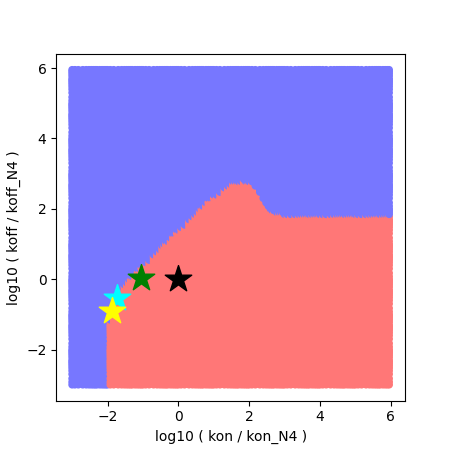
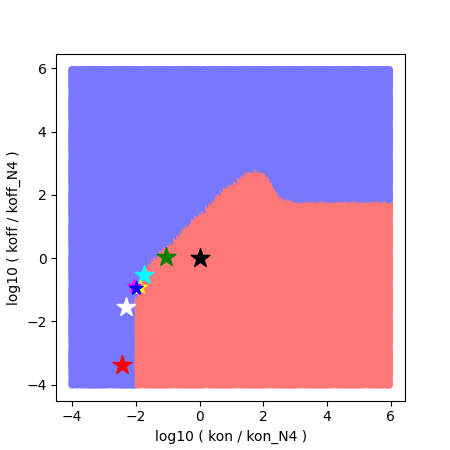
updated

diff --git a/other scripts and data/Fig 5C/kk_plots.py b/other scripts and data/Fig 5C/kk_plots.py
@@ -23,10 +23,15 @@ with open(fn_in_0, 'r') as file:
     headers = next(reader)
     data_0 = np.array(list(reader))
 
+data_0_merge = np.concatenate((data_0[0, :], data_0[1, :], data_0[2, :])).astype(float)
+print(data_0_merge.shape)
+
 ticklabels = headers
 
 data_for_calc_0 = data_0.astype(float)
 values_0 = np.mean(data_for_calc_0, 0)
+
+log_data_for_calc_merge = None
 
 for i in range(3):
     kName = kNames1[i]
@@ -43,12 +48,17 @@ for i in range(3):
     data_for_calc = data[:, 1:].astype(float)
     print(data_for_calc.shape)
     lod_data_for_calc = np.log10(data_for_calc)
+    if log_data_for_calc_merge is None:
+        log_data_for_calc_merge = lod_data_for_calc
+    else:
+        log_data_for_calc_merge = np.column_stack((log_data_for_calc_merge, lod_data_for_calc))
     #means = np.nanmean(data_for_calc, 0)
     #logmeans = np.log10(means)
     logmeans = np.nanmean(lod_data_for_calc, 0)
     values_mean.append(logmeans)
     logstd = np.nanstd(lod_data_for_calc, 0)
     values_std.append(logstd)
+print(log_data_for_calc_merge.shape)
 
 fig = plt.figure(figsize=(12, 12))
 
@@ -85,22 +95,61 @@ ax.set_ylabel(f'log10({kNames2[2]})')
 plt.savefig(fn_out)
 
 rho, p_value = stats.spearmanr(values_0, values_mean[0])
-print(f"kon Spearman’s ρ: {rho:.3f}, p-value: {p_value:.4f}")
+print(f"kon Spearman’s ρ 1: {rho:.3f}, p-value: {p_value:.4f}")
 rho, p_value = stats.spearmanr(values_0, values_mean[1])
-print(f"koff Spearman’s ρ: {rho:.3f}, p-value: {p_value:.4f}")
+print(f"koff Spearman’s ρ 1: {rho:.3f}, p-value: {p_value:.4f}")
 rho, p_value = stats.spearmanr(values_0, values_mean[2])
-print(f"krel Spearman’s ρ: {rho:.3f}, p-value: {p_value:.4f}")
+print(f"krel Spearman’s ρ 1: {rho:.3f}, p-value: {p_value:.4f}")
 
 rho, p_value = stats.pearsonr(values_0, values_mean[0])
-print(f"kon Pearson’s ρ: {rho:.3f}, p-value: {p_value:.4f}")
+print(f"kon Pearson’s ρ 1: {rho:.3f}, p-value: {p_value:.4f}")
 rho, p_value = stats.pearsonr(values_0, values_mean[1])
-print(f"koff Pearson’s ρ: {rho:.3f}, p-value: {p_value:.4f}")
+print(f"koff Pearson’s ρ 1: {rho:.3f}, p-value: {p_value:.4f}")
 rho, p_value = stats.pearsonr(values_0, values_mean[2])
-print(f"krel Pearson’s ρ: {rho:.3f}, p-value: {p_value:.4f}")
+print(f"krel Pearson’s ρ 1: {rho:.3f}, p-value: {p_value:.4f}")
 
 rho, p_value = stats.kendalltau(values_0, values_mean[0])
-print(f"kon kendall tau: {rho:.3f}, p-value: {p_value:.4f}")
+print(f"kon kendall tau 1: {rho:.3f}, p-value: {p_value:.4f}")
 rho, p_value = stats.kendalltau(values_0, values_mean[1])
-print(f"koff kendall tau: {rho:.3f}, p-value: {p_value:.4f}")
+print(f"koff kendall tau 1: {rho:.3f}, p-value: {p_value:.4f}")
 rho, p_value = stats.kendalltau(values_0, values_mean[2])
-print(f"krel kendall tau: {rho:.3f}, p-value: {p_value:.4f}")
+print(f"krel kendall tau 1: {rho:.3f}, p-value: {p_value:.4f}")
+
+notnan = np.where(np.logical_not(np.logical_or(np.isnan(data_0_merge), np.isnan(log_data_for_calc_merge[0, :]))))
+#print(notnan)
+rho, p_value = stats.spearmanr(data_0_merge[notnan], log_data_for_calc_merge[0, :][notnan])
+print(f"kon Spearman’s ρ 2: {rho:.3f}, p-value: {p_value:.4f}")
+notnan = np.where(np.logical_not(np.logical_or(np.isnan(data_0_merge), np.isnan(log_data_for_calc_merge[1, :]))))
+#print(notnan)
+rho, p_value = stats.spearmanr(data_0_merge[notnan], log_data_for_calc_merge[1, :][notnan])
+print(f"koff Spearman’s ρ 2: {rho:.3f}, p-value: {p_value:.4f}")
+notnan = np.where(np.logical_not(np.logical_or(np.isnan(data_0_merge), np.isnan(log_data_for_calc_merge[2, :]))))
+#print(notnan)
+rho, p_value = stats.spearmanr(data_0_merge[notnan], log_data_for_calc_merge[2, :][notnan])
+print(f"krel Spearman’s ρ 2: {rho:.3f}, p-value: {p_value:.4f}")
+
+notnan = np.where(np.logical_not(np.logical_or(np.isnan(data_0_merge), np.isnan(log_data_for_calc_merge[0, :]))))
+#print(notnan)
+rho, p_value = stats.pearsonr(data_0_merge[notnan], log_data_for_calc_merge[0, :][notnan])
+print(f"kon Pearson’s ρ 2: {rho:.3f}, p-value: {p_value:.4f}")
+notnan = np.where(np.logical_not(np.logical_or(np.isnan(data_0_merge), np.isnan(log_data_for_calc_merge[1, :]))))
+#print(notnan)
+rho, p_value = stats.pearsonr(data_0_merge[notnan], log_data_for_calc_merge[1, :][notnan])
+print(f"koff Pearson’s ρ 2: {rho:.3f}, p-value: {p_value:.4f}")
+notnan = np.where(np.logical_not(np.logical_or(np.isnan(data_0_merge), np.isnan(log_data_for_calc_merge[2, :]))))
+#print(notnan)
+rho, p_value = stats.pearsonr(data_0_merge[notnan], log_data_for_calc_merge[2, :][notnan])
+print(f"krel Pearson’s ρ 2: {rho:.3f}, p-value: {p_value:.4f}")
+
+notnan = np.where(np.logical_not(np.logical_or(np.isnan(data_0_merge), np.isnan(log_data_for_calc_merge[0, :]))))
+#print(notnan)
+rho, p_value = stats.kendalltau(data_0_merge[notnan], log_data_for_calc_merge[0, :][notnan])
+print(f"kon kendall tau 2: {rho:.3f}, p-value: {p_value:.4f}")
+notnan = np.where(np.logical_not(np.logical_or(np.isnan(data_0_merge), np.isnan(log_data_for_calc_merge[1, :]))))
+#print(notnan)
+rho, p_value = stats.kendalltau(data_0_merge[notnan], log_data_for_calc_merge[1, :][notnan])
+print(f"koff kendall tau 2: {rho:.3f}, p-value: {p_value:.4f}")
+notnan = np.where(np.logical_not(np.logical_or(np.isnan(data_0_merge), np.isnan(log_data_for_calc_merge[2, :]))))
+#print(notnan)
+rho, p_value = stats.kendalltau(data_0_merge[notnan], log_data_for_calc_merge[2, :][notnan])
+print(f"krel kendall tau 2: {rho:.3f}, p-value: {p_value:.4f}")

diff --git a/other scripts and data/Fig 5EFG/derived.py b/other scripts and data/Fig 5EFG/derived.py
@@ -10,10 +10,10 @@ from scipy.integrate import odeint
 fn_in = 'all_fitting_fit10.csv'
 
 LL0 = [1, 1.2, 1.5, 2, 2.5, 3, 3.5, 4, 4.5, 5, 6, 7, 8, 9]
-LL1 = LL0 * 9
+LL1 = LL0 * 10
 LL2 = []
-L2 = 0.001
-for i in range(9):
+L2 = 0.0001
+for i in range(10):
     for j in range(len(LL0)):
         LL2.append(L2)
     L2 *= 10
@@ -122,6 +122,39 @@ UVpep_k_p_1 = float(data[line_number, 6])
 UVpep_k_p_2 = float(data[line_number, 7])
 UVpep_k_p_3 = float(data[line_number, 8])
 
+line_number = 40
+
+N4_ing_A = float(data[line_number, 4])
+N4_ing_B = float(data[line_number, 5])
+N4_ing_k_p_1 = float(data[line_number, 6])
+N4_ing_k_p_2 = float(data[line_number, 7])
+N4_ing_k_p_3 = float(data[line_number, 8])
+
+line_number = 41
+
+T4_ing_A = float(data[line_number, 4])
+T4_ing_B = float(data[line_number, 5])
+T4_ing_k_p_1 = float(data[line_number, 6])
+T4_ing_k_p_2 = float(data[line_number, 7])
+T4_ing_k_p_3 = float(data[line_number, 8])
+
+line_number = 42
+
+V4_ing_A = float(data[line_number, 4])
+V4_ing_B = float(data[line_number, 5])
+V4_ing_k_p_1 = float(data[line_number, 6])
+V4_ing_k_p_2 = float(data[line_number, 7])
+V4_ing_k_p_3 = float(data[line_number, 8])
+
+line_number = 43
+
+UVpep_ing_A = float(data[line_number, 4])
+UVpep_ing_B = float(data[line_number, 5])
+UVpep_ing_k_p_1 = float(data[line_number, 6])
+UVpep_ing_k_p_2 = float(data[line_number, 7])
+UVpep_ing_k_p_3 = float(data[line_number, 8])
+
+
 kons = []
 koffs = []
 peaks = []
@@ -143,10 +176,14 @@ print(colors)
 cmap = ListedColormap([blue, red])
 plt.figure(figsize=(4.5, 4.5))
 plt.scatter(kons, koffs, c=colors, cmap=cmap, s=20)
-plt.scatter([0], [0], color='black', marker='*', s=400)
-plt.scatter([np.log10(T4_k_p_1 / k_p_1)], [np.log10(T4_k_p_2 / k_p_2)], color='green', marker='*', s=400)
-plt.scatter([np.log10(V4_k_p_1 / k_p_1)], [np.log10(V4_k_p_2 / k_p_2)], color='cyan', marker='*', s=400)
-plt.scatter([np.log10(UVpep_k_p_1 / k_p_1)], [np.log10(UVpep_k_p_2 / k_p_2)], color='yellow', marker='*', s=400)
+plt.scatter([0], [0], color='black', marker='*', s=200)
+plt.scatter([np.log10(T4_k_p_1 / k_p_1)], [np.log10(T4_k_p_2 / k_p_2)], color='green', marker='*', s=200)
+plt.scatter([np.log10(V4_k_p_1 / k_p_1)], [np.log10(V4_k_p_2 / k_p_2)], color='cyan', marker='*', s=200)
+plt.scatter([np.log10(UVpep_k_p_1 / k_p_1)], [np.log10(UVpep_k_p_2 / k_p_2)], color='yellow', marker='*', s=100)
+plt.scatter([np.log10(N4_ing_k_p_1 / k_p_1)], [np.log10(N4_ing_k_p_2 / k_p_2)], color='white', marker='*', s=200)
+plt.scatter([np.log10(T4_ing_k_p_1 / k_p_1)], [np.log10(T4_ing_k_p_2 / k_p_2)], color='magenta', marker='*', s=100)
+plt.scatter([np.log10(V4_ing_k_p_1 / k_p_1)], [np.log10(V4_ing_k_p_2 / k_p_2)], color='red', marker='*', s=200)
+plt.scatter([np.log10(UVpep_ing_k_p_1 / k_p_1)], [np.log10(UVpep_ing_k_p_2 / k_p_2)], color='blue', marker='*', s=100)
 plt.xlabel('log10 ( kon / kon_N4 )')
 plt.ylabel('log10 ( koff / koff_N4 )')
 out_file = f"{fileName}_{peptide}_{ing}_kon_koff.png"
